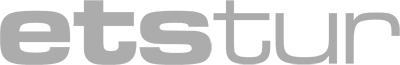
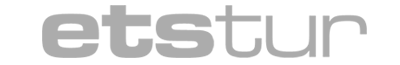
tripadvisor

diff --git a/index.html b/index.html
@@ -54,18 +54,17 @@
 							<a href="https://www.etstur.com/Olympos-Olive-Garden-Pansiyon" target="_blank"><img
 									src="images/ets.png" class="logo-ets"></a>
 						</li>
-						<!-- <li class="list-heading">Follow us for update</li>
-						<li><a href="#"><i class="ion-social-facebook"></i></a></li>
-						<li><a href="#"><i class="ion-social-twitter"></i></a></li>
-						<li><a href="#"><i class="ion-social-googleplus"></i></a></li>
-						<li><a href="#"><i class="ion-social-instagram-outline"></i></a></li>
-						<li><a href="#"><i class="ion-social-pinterest"></i></a></li> -->
+						<li><span> </span></li>
+						<li>
+							<a href="https://www.tripadvisor.com.tr/Hotel_Review-g311311-d12870731-Reviews-Olive_Garden_Pansiyon-Olympos_Turkish_Mediterranean_Coast.html?m=19905" target="_blank"><img
+									src="images/trip.png" class="logo-ets"></a>
+						</li>
 					</ul>
 
-				</div><!-- display-table -->
-			</div><!-- display-table-cell -->
-		</div><!-- main-area -->
-	</div><!-- main-area-wrapper -->
+				</div>
+			</div>
+		</div>
+	</div>
 
 
 </body>

diff --git a/css/styles.css b/css/styles.css
@@ -338,10 +338,12 @@ html {
 
 .main-area .social-btn {
 	position: absolute;
-	bottom: 30px;
+	bottom: 0px;
 	width: 100%;
 	left: 50%;
 	transform: translateX(-50%);
+	background-color: #0000008c;
+	padding: 10px;
 }
 
 
